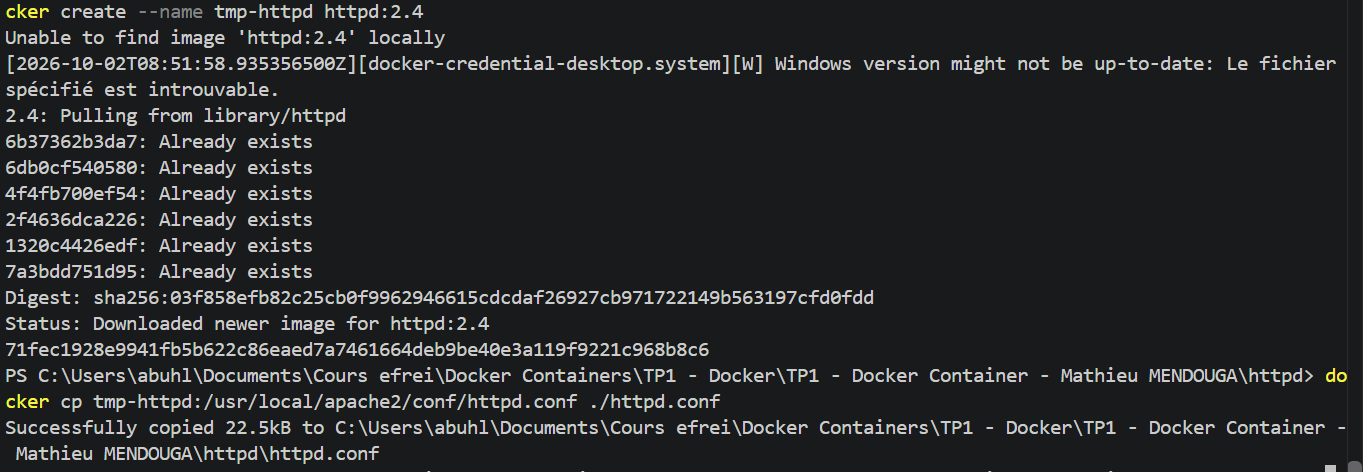
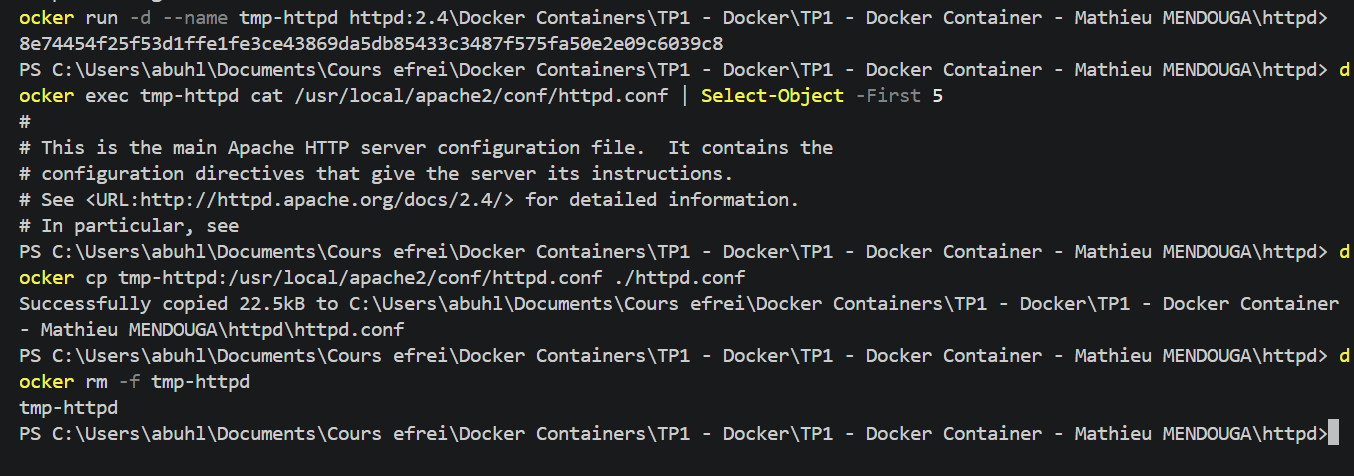
resolve changes

Changed region(s): [[0.0, 0.0, 1.0, 0.9788], [0.9616, 0.9788, 1.0, 1.0]]

diff --git a/httpd/index.html b/httpd/index.html
@@ -3,6 +3,6 @@
   <head><title>TP Docker</title></head>
   <body>
     <h1>Hello from httpd</h1>
-    <p>Landing page du TP Docker.</p>
+    <p>Landing page TP Docker.</p>
   </body>
 </html>

diff --git a/httpd/README-httpd.md b/httpd/README-httpd.md
@@ -6,6 +6,30 @@ Image used: `httpd:2.4` (Apache).
 
 `index.html`: simple landing page.
 
+`Dockerfile.landing`:
+
+```dockerfile
+FROM httpd:2.4
+COPY index.html /usr/local/apache2/htdocs/
+```
+
+```bash
+docker build -f Dockerfile.landing -t httpd-landing .
+ docker run -d --name httpd-landing -p 8081:80 httpd-landing
+```
+
+![Landing terminal](./screenshots/httpd-landing-terminal.png)
+
+![Commands](./screenshots/httpd-landing-terminal-logs.png)
+
+![Commands](./screenshots/httpd-landing-terminal-stats.png)
+
+![Commands](./screenshots/httpd-landing-terminal-inspect.png)
+
+```bash
+docker rm -f httpd-landing
+```
+
 `Dockerfile`:
 
 ```dockerfile
@@ -20,14 +44,17 @@ Landing page test, before the proxy was configured:
 
 Useful commands: `docker logs`, `docker stats`, `docker inspect`.
 
+![Terminal](./screenshots/httpd-stats.png)
+
 ## Configuration
 
 The default configuration was retrieved from a container:
 
 ```bash
-docker create --name tmp-httpd httpd:2.4
+docker run -d --name tmp-httpd httpd:2.4
+docker exec tmp-httpd cat /usr/local/apache2/conf/httpd.conf | Select-Object -First 5
 docker cp tmp-httpd:/usr/local/apache2/conf/httpd.conf ./httpd.conf
-docker rm tmp-httpd
+docker rm -f tmp-httpd
 ```
 
 ![Terminal](./screenshots/httpd-terminal.png)

diff --git a/README.md b/README.md
@@ -97,15 +97,27 @@ POSTGRES_PASSWORD=pwd
 ```bash
 docker compose up -d --build
 docker compose ps
+docker compose logs -f backend
 ```
 
 ![docker compose ps](./screenshots/compose-ps.png)
+
+![docker compose ps](./screenshots/compose-terminal.png)
 
 ```bash
 curl http://localhost/departments/IRC/students
 ```
 
 ![API through the reverse proxy](./screenshots/compose-api.png)
+
+![API through the reverse proxy](./screenshots/compose-api-terminal.png)
+
+```bash
+curl http://localhost/
+```
+
+![API through the reverse proxy](./screenshots/compose-api-terminal-localhost.png)
+
 
 ### 1-6 Why is docker-compose so important?
 
